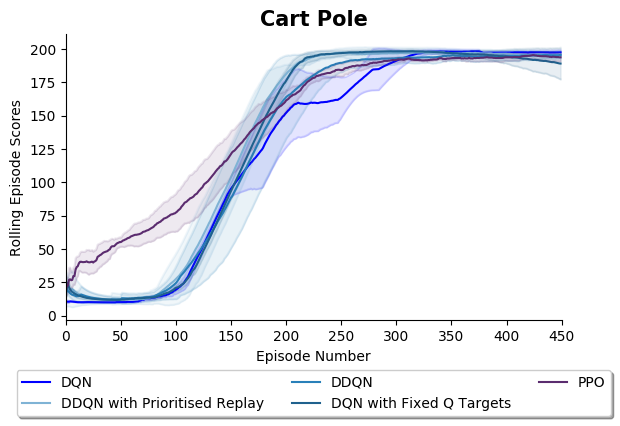
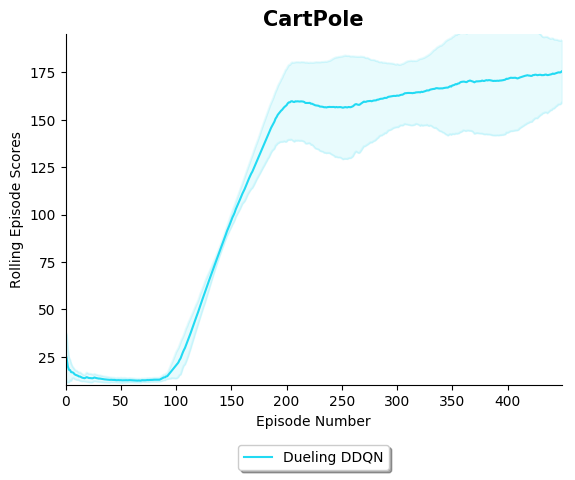
added cart pole results for Dueling DDQN

diff --git a/results/data_and_graphs/Plot_Sets_Of_Results.py b/results/data_and_graphs/Plot_Sets_Of_Results.py
@@ -16,13 +16,13 @@ trainer = Trainer(config=Config(), agents=None)
 #                                       title="Long Corridor", y_limits=(0.0, 0.25))
 
 
-trainer.visualise_preexisting_results(save_image_path="Hopper_Results_Graph_Both_Agents.png", data_path="Hopper_Results_Data.pkl",
-                                      title="Hopper") #, y_limits=(0.0, 0.25))
+# trainer.visualise_preexisting_results(save_image_path="Hopper_Results_Graph_Both_Agents.png", data_path="Hopper_Results_Data.pkl",
+#                                       title="Hopper") #, y_limits=(0.0, 0.25))
 
-# trainer.visualise_set_of_preexisting_results(results_data_paths=["Cart_Pole_Results_Data.pkl",
-#                                                                  "Mountain_Car_Results_Data.pkl"],
-#                                              plot_titles=["Cart Pole (Discrete Actions)", "Mountain Car (Continuous Actions)"],
-#                                              save_image_path="CartPole_and_MountainCar_Graph.png")
+trainer.visualise_set_of_preexisting_results(results_data_paths=["Cart_Pole_Results_Data.pkl",
+                                                                 "Mountain_Car_Results_Data.pkl"],
+                                             plot_titles=["Cart Pole (Discrete Actions)", "Mountain Car (Continuous Actions)"],
+                                             save_image_path="CartPole_and_MountainCar_Graph.png")
 
 
 # trainer.visualise_set_of_preexisting_results(results_data_paths=["Data_and_Graphs/Bit_Flipping_Results_Data.pkl",

diff --git a/results/Cart_Pole.py b/results/Cart_Pole.py
@@ -15,13 +15,13 @@ config = Config()
 config.seed = 1
 config.environment = gym.make("CartPole-v0")
 config.num_episodes_to_run = 450
-config.file_to_save_data_results = "data_and_results/Cart_Pole_Results_Data.pkl"
-config.file_to_save_results_graph = "data_and_results/Cart_Pole_Results_Graph.png"
+config.file_to_save_data_results = "data_and_graphs/Cart_Pole_Results_Data.pkl"
+config.file_to_save_results_graph = "data_and_graphs/Cart_Pole_Results_Graph.png"
 config.show_solution_score = False
 config.visualise_individual_results = False
 config.visualise_overall_agent_results = True
 config.standard_deviation_results = 1.0
-config.runs_per_agent = 1
+config.runs_per_agent = 3
 config.use_GPU = False
 config.overwrite_existing_results_file = False
 config.randomise_random_seed = True
@@ -30,7 +30,7 @@ config.save_model = False
 
 config.hyperparameters = {
     "DQN_Agents": {
-        "learning_rate": 0.005,
+        "learning_rate": 0.01,
         "batch_size": 128,
         "buffer_size": 40000,
         "epsilon": 1.0,
@@ -89,7 +89,7 @@ config.hyperparameters = {
 }
 
 if __name__ == "__main__":
-    AGENTS = [Dueling_DDQN] #, PPO, A2C, A3C, DQN, DQN_With_Fixed_Q_Targets, DDQN_With_Prioritised_Experience_Replay, DDQN]
+    AGENTS = [Dueling_DDQN, PPO, A2C, A3C, DQN, DQN_With_Fixed_Q_Targets, DDQN_With_Prioritised_Experience_Replay, DDQN]
     trainer = Trainer(config, AGENTS)
     trainer.run_games_for_agents()
 
